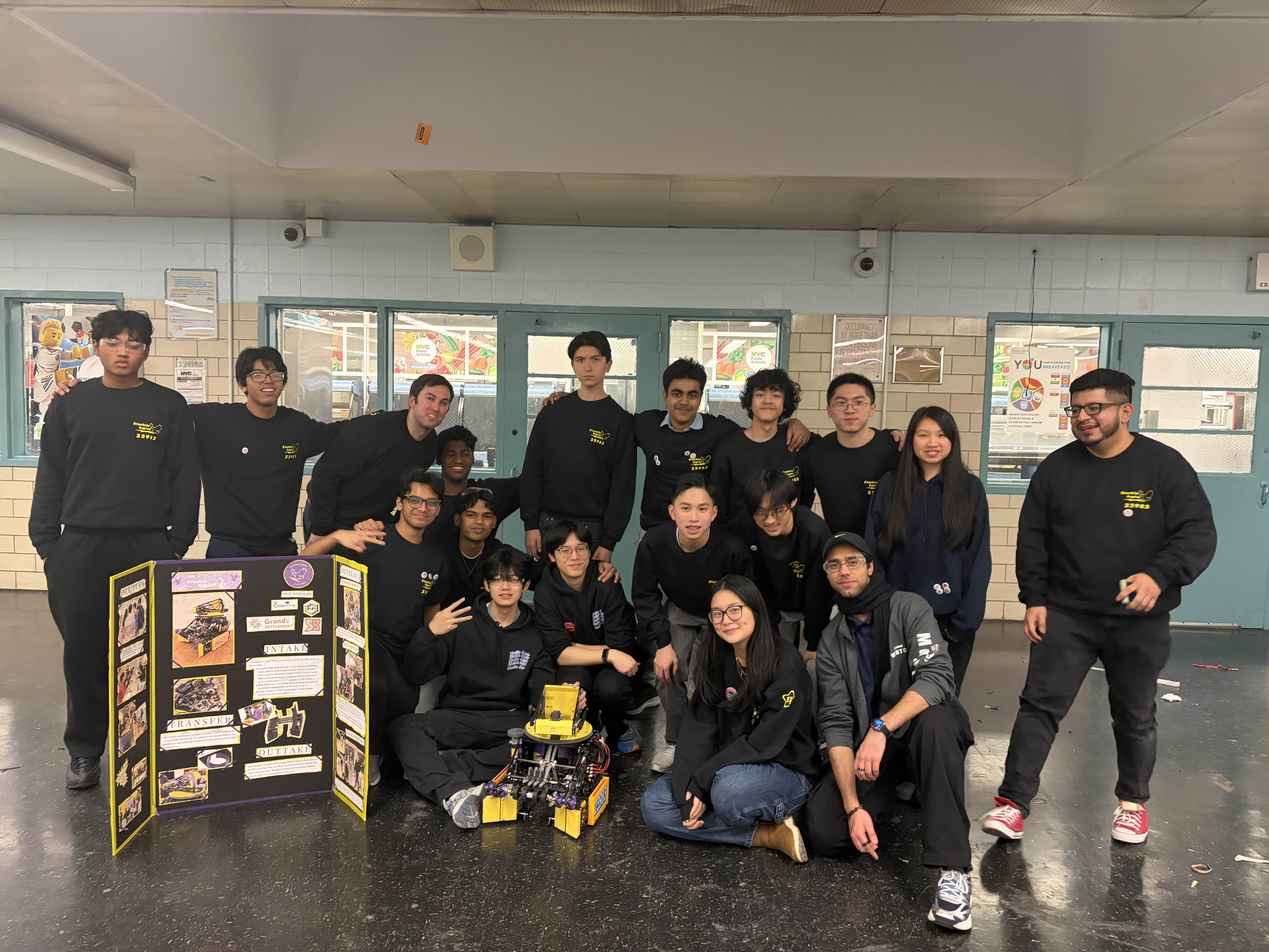
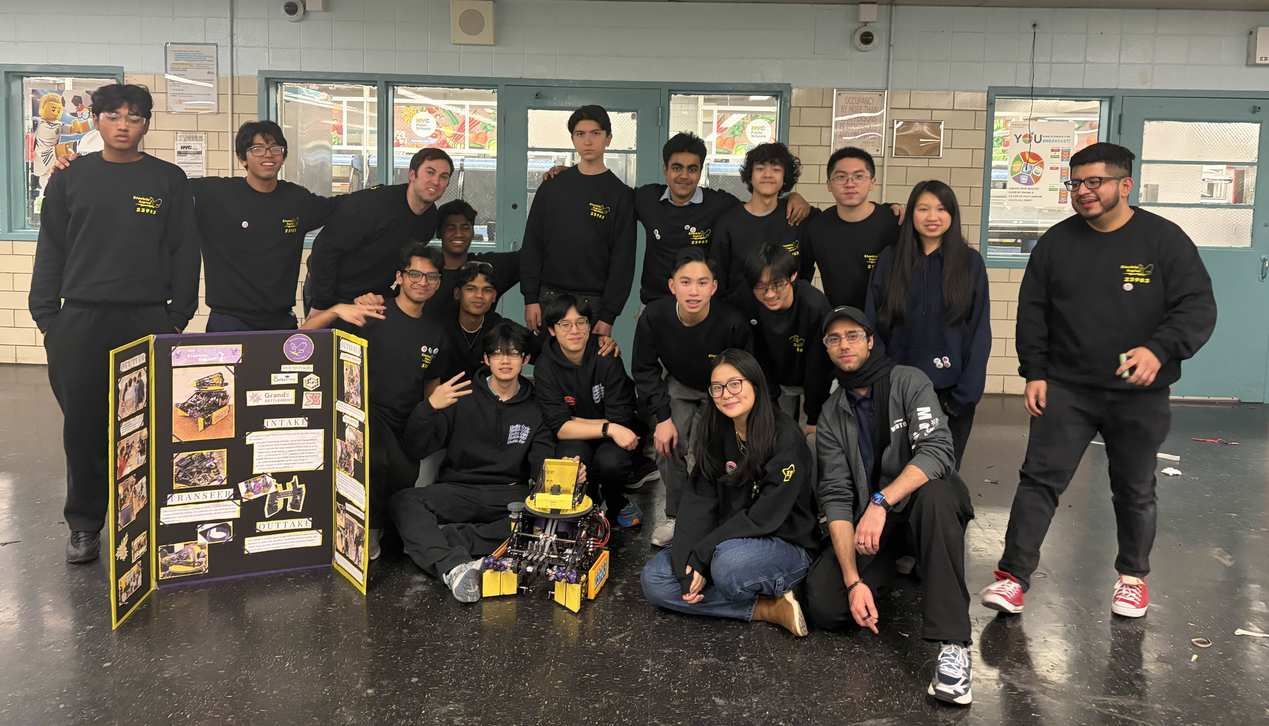
Question Mark

diff --git a/explore.html b/explore.html
@@ -204,7 +204,7 @@
                                     
                                     <div class="journeyImg" > 
                                         <div class="imageRow"> 
-                                            <img src="assets/Mentor/EE-Mentor-PIC.JPG" alt="FTC 23983" class="volunteer-image">
+                                            <img src="assets/Mentor/EE-Mentor-PIC.jpg" alt="FTC 23983" class="volunteer-image">
                                         </div>    
                                     </div>
                         </div>
